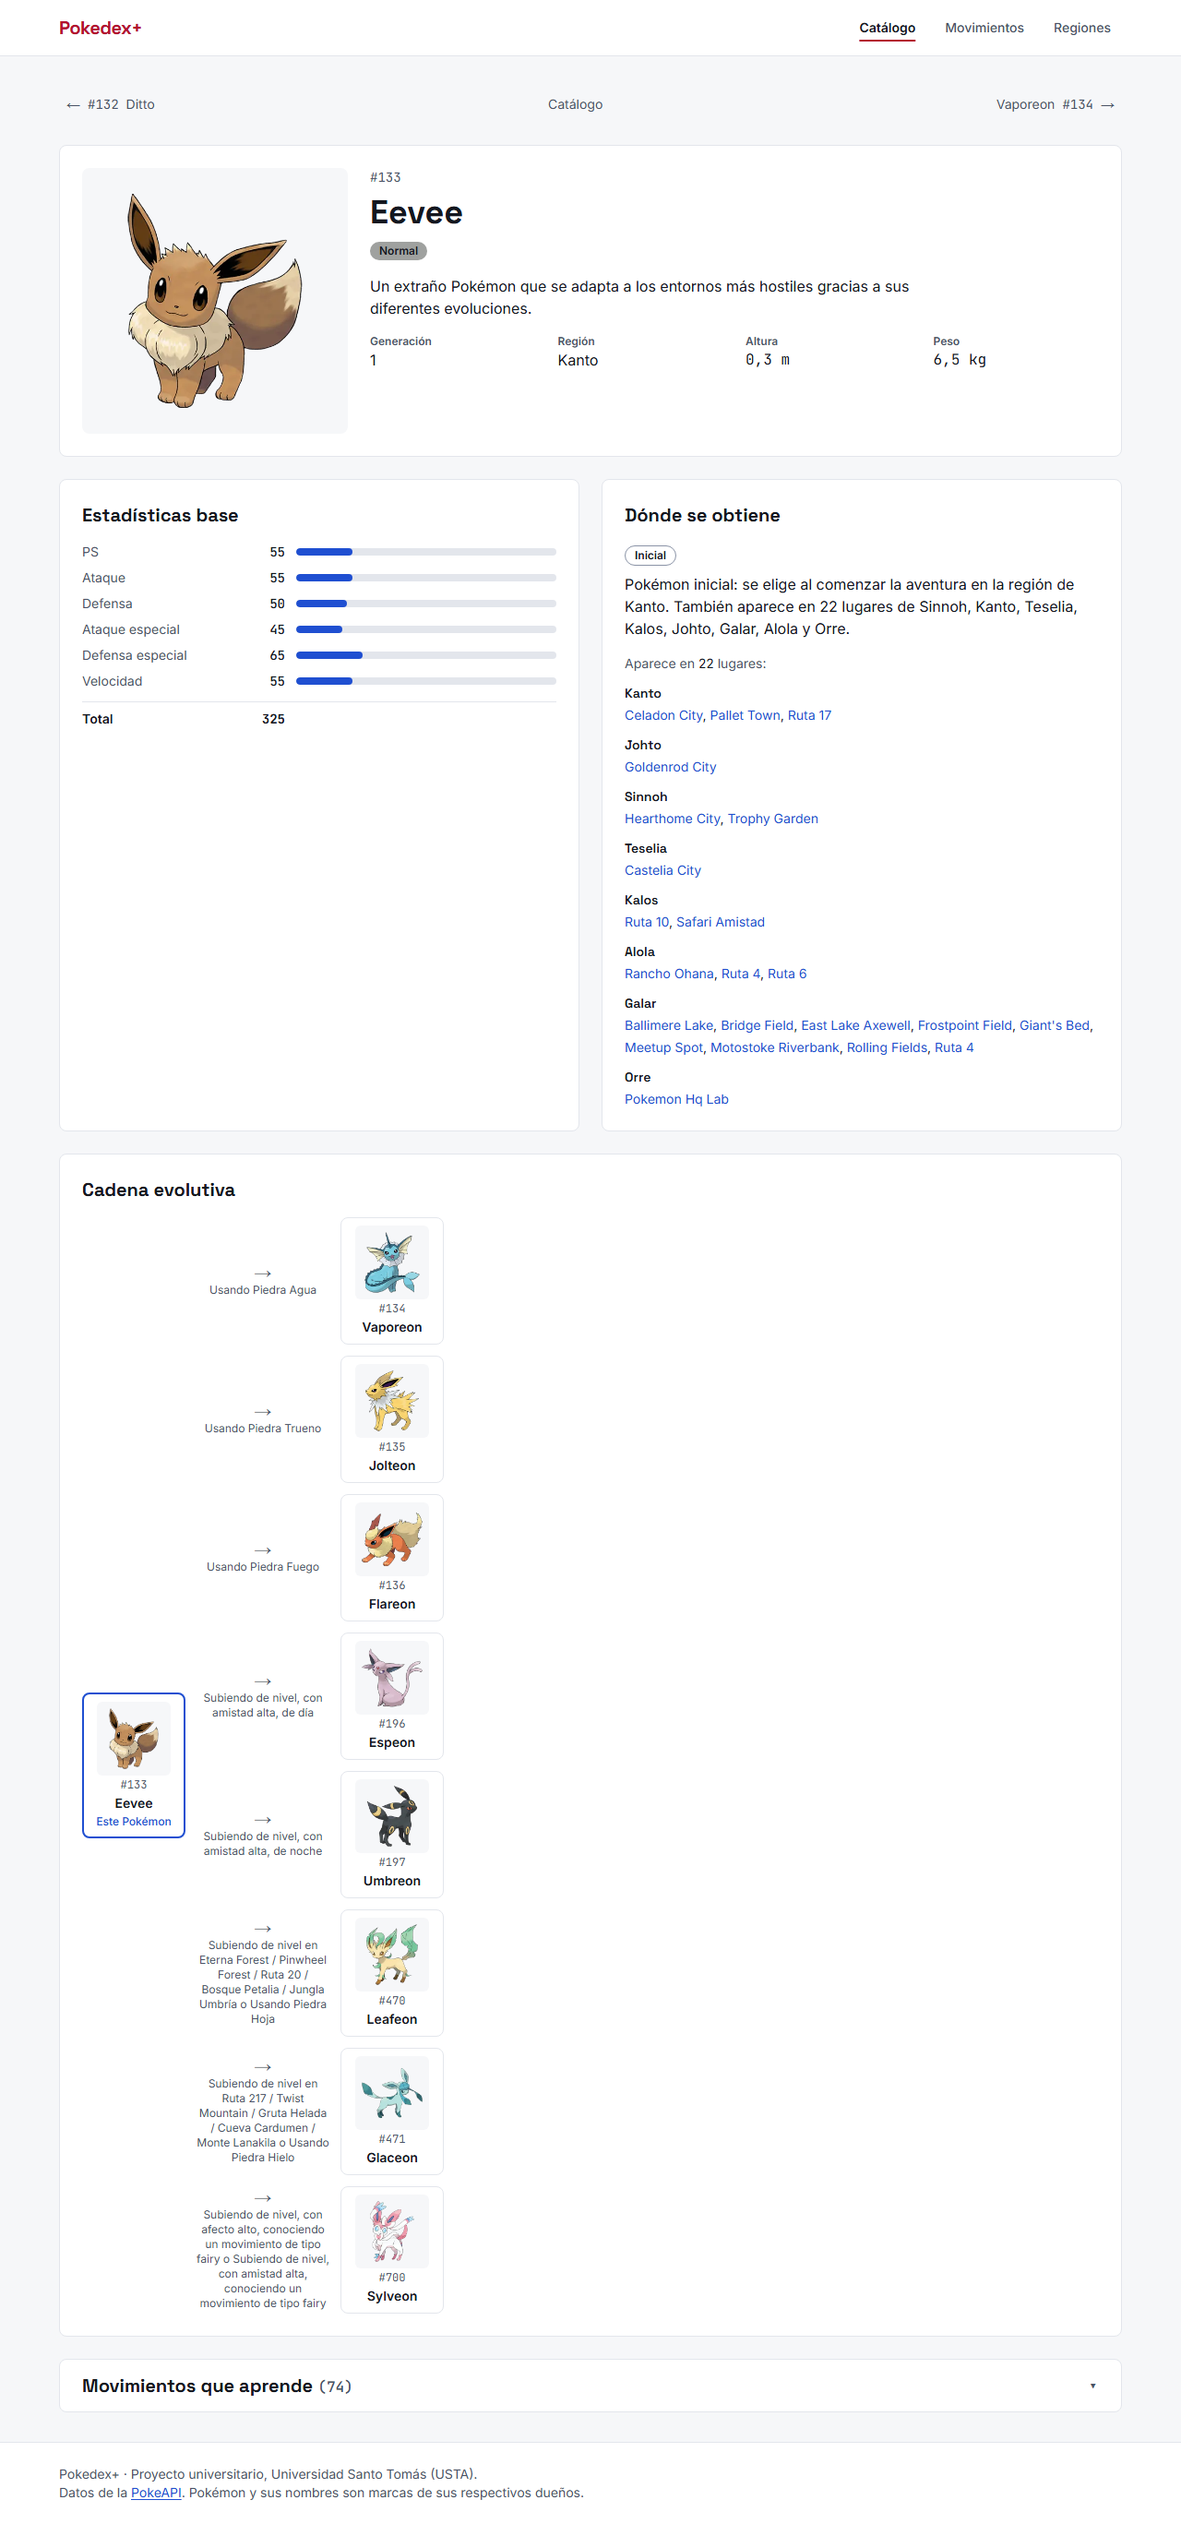
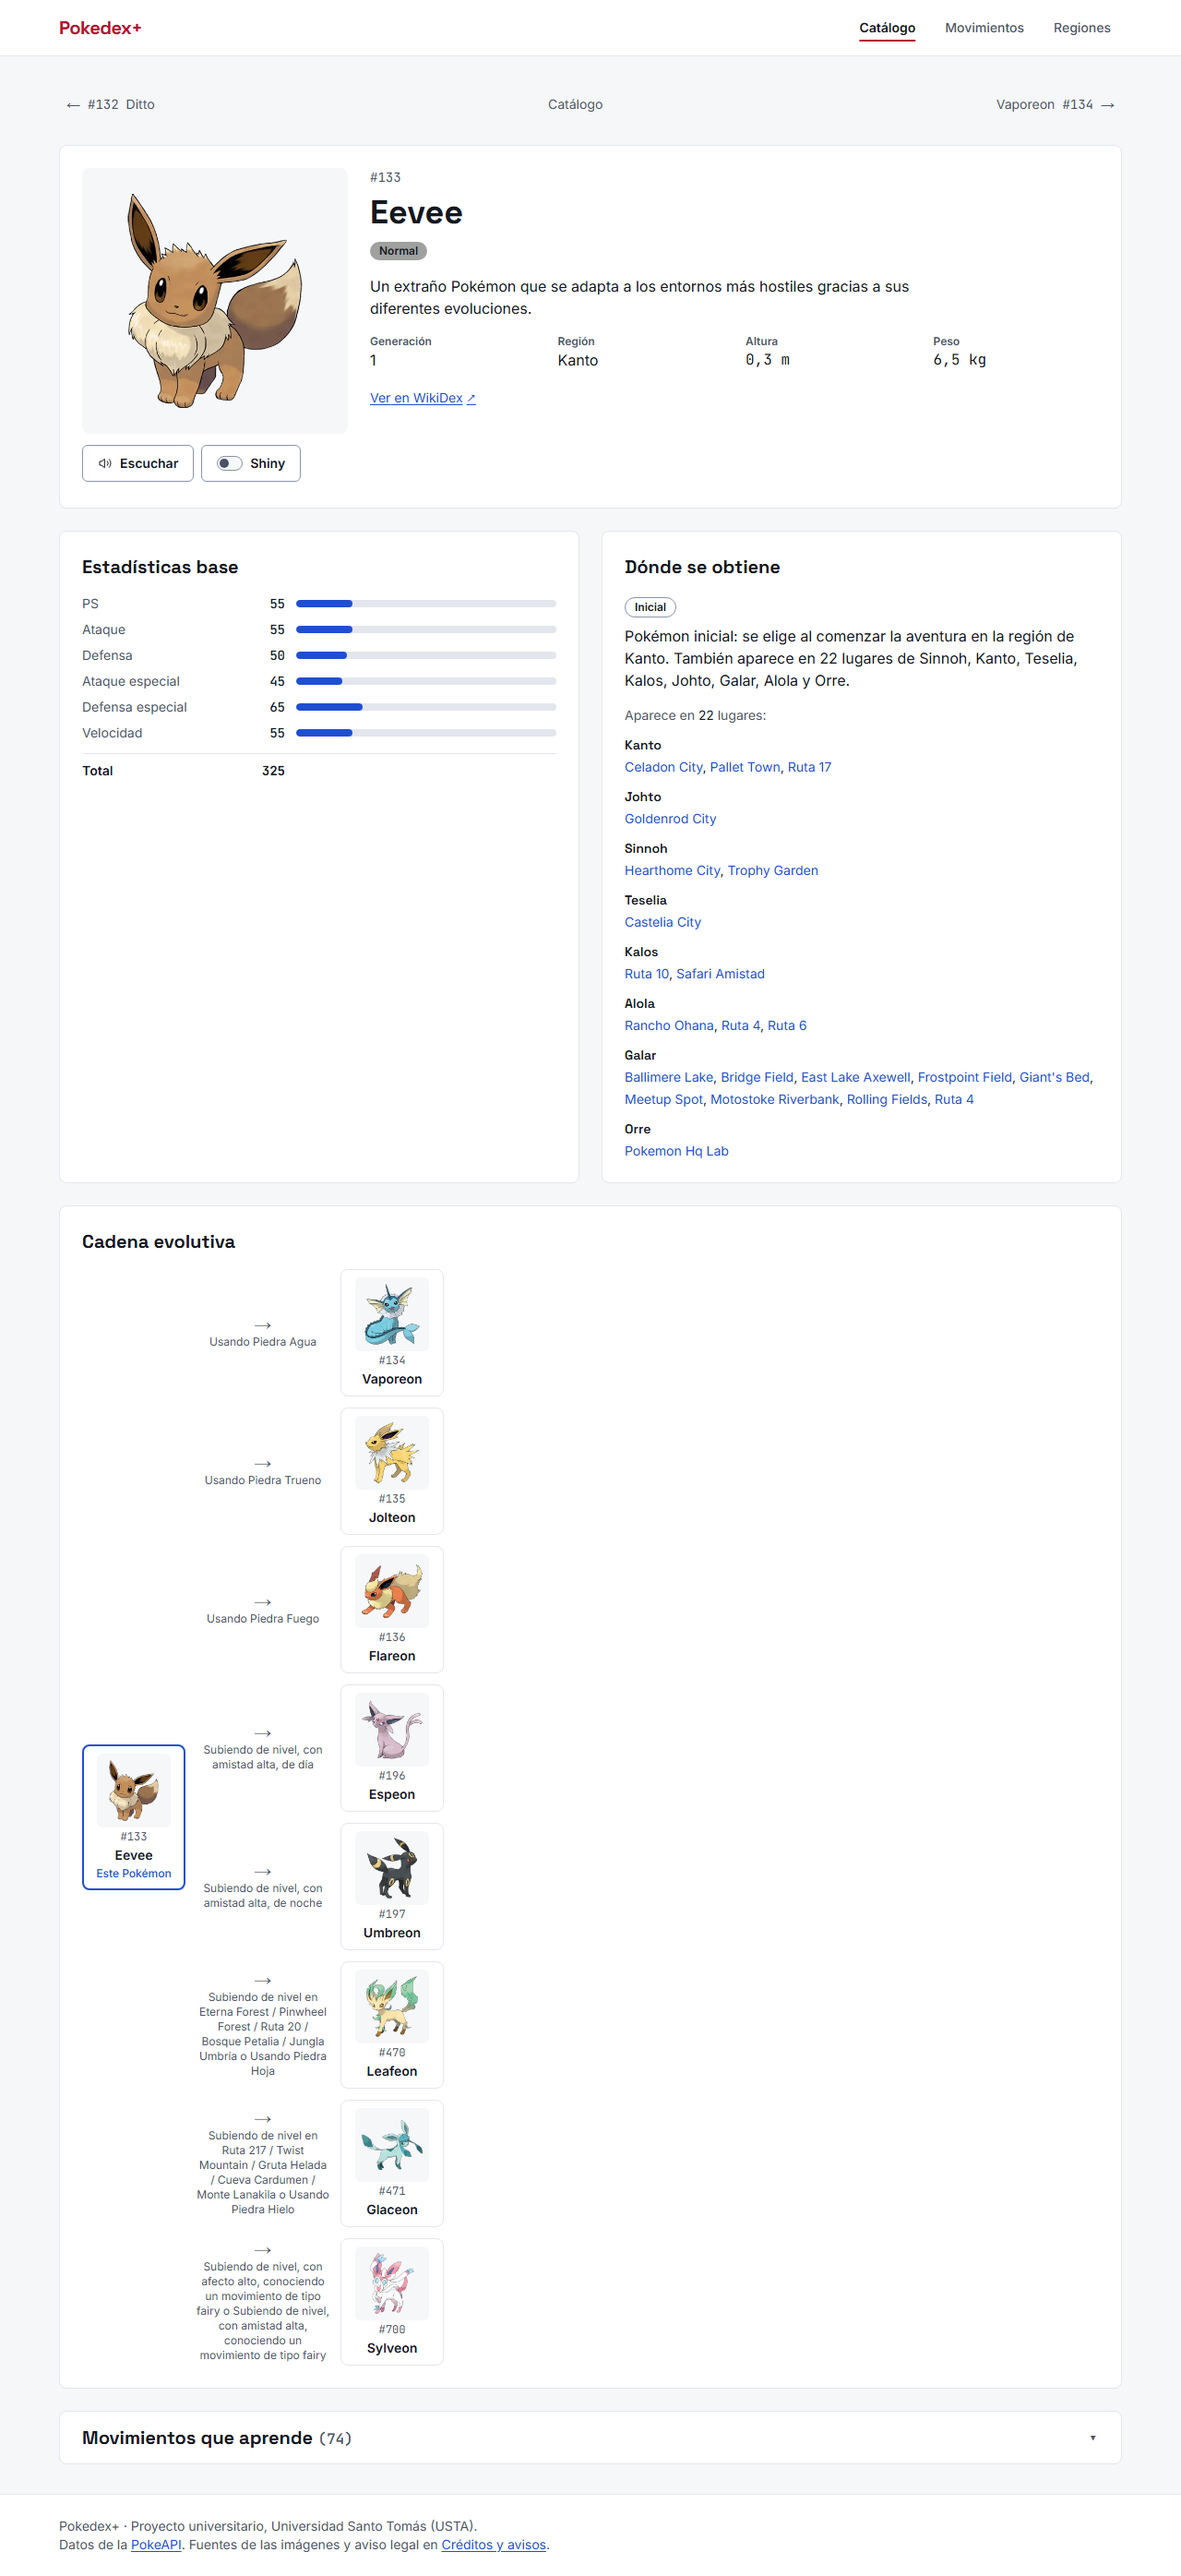
Capturas de referencia rehechas (P1, P2, P4, P5) y evaluación actualizada (FE.22)

diff --git a/docs/diseno/referencias/README.md b/docs/diseno/referencias/README.md
@@ -1,6 +1,6 @@
 # Pantallas de referencia · Pokedex+
 
-Capturas de página completa del front publicado (<https://pokedex-frontend-seven.vercel.app/>), tomadas el 2026-11-16 con Chrome sin interfaz y emulación de dispositivo (CDP): 390 px como móvil (escala 2×) y 1280 px como escritorio (escala 1×).
+Capturas de página completa del build de producción del front (`npm run build` + `next start`, solo con el mock, el mismo código que se publica en <https://pokedex-frontend-seven.vercel.app/>), tomadas el 2026-11-16 al cerrar FE.22 con Chrome sin interfaz y emulación de dispositivo (CDP): 390 px como móvil (escala 2×) y 1280 px como escritorio (escala 1×). Sustituyen a las de FE.13 e incluyen los toques de nostalgia, los mapas, las capturas de lugares y los enlaces a WikiDex.
 
 | Captura | Pantalla | Ancho |
 |---|---|---|
@@ -8,6 +8,10 @@ Capturas de página completa del front publicado (<https://pokedex-frontend-seve
 | [`p1-catalogo-1280.png`](p1-catalogo-1280.png) | P1 · Catálogo (`/`) | 1280 px |
 | [`p2-ficha-eevee-390.png`](p2-ficha-eevee-390.png) | P2 · Ficha de Eevee (`/pokemon/133`) | 390 px |
 | [`p2-ficha-eevee-1280.png`](p2-ficha-eevee-1280.png) | P2 · Ficha de Eevee (`/pokemon/133`) | 1280 px |
+| [`p4-region-kanto-390.png`](p4-region-kanto-390.png) | P4 · Región Kanto (`/regiones/kanto`) | 390 px |
+| [`p4-region-kanto-1280.png`](p4-region-kanto-1280.png) | P4 · Región Kanto (`/regiones/kanto`) | 1280 px |
+| [`p5-viridian-forest-390.png`](p5-viridian-forest-390.png) | P5 · Viridian Forest (`/rutas/62`) | 390 px |
+| [`p5-viridian-forest-1280.png`](p5-viridian-forest-1280.png) | P5 · Viridian Forest (`/rutas/62`) | 1280 px |
 
 **No hubo variantes /a /b /c.** El diseño se construyó directamente desde la identidad «Laboratorio» ([`identidad-visual.md`](../identidad-visual.md)) y la skill `ui-componentes`. Estas capturas son la referencia de cómo quedó, no el resultado de comparar alternativas (ver `decisiones.md`, 2026-11-16).
 
@@ -20,10 +24,13 @@ Escala: **Cumple** · **Cumple en parte** (funciona, pero hay algo concreto que 
 | Claridad | Cumple | Cada pantalla tiene un solo propósito visible arriba: título, una línea de explicación y la acción principal (el botón rojo "Buscar" es el único primario de la vista). Las tarjetas muestran solo número, nombre y tipos; los vacíos y errores se explican en texto. |
 | Jerarquía | Cumple en parte | Bien en el catálogo y en la cabecera de la ficha (número en mono → nombre grande → tipos → datos). En la ficha a 1280 px hay dos fallos de peso visual (ver mejoras 1 y 2). |
 | Consistencia | Cumple | Todo usa los tokens de la identidad: tarjetas blancas con borde de 1 px, píldoras para tipos y etiquetas, Space Grotesk en títulos, JetBrains Mono en números, un solo azul para enlaces y barras. Las mismas tarjetas de Pokémon se repiten en el catálogo y en las rutas. |
-| Responsivo a 390 px | Cumple en parte | Sin desplazamiento horizontal (`scrollWidth` = 390 en las dos pantallas), cuadrícula de 2 columnas, controles de 44 px de alto y cadena evolutiva en vertical. Pero en el catálogo los filtros ocupan casi toda la primera pantalla (ver mejora 3). |
+| Responsivo a 390 px | Cumple en parte | Sin desplazamiento horizontal (`scrollWidth` = 390 en las cuatro pantallas), cuadrícula de 2 columnas, controles de 44 px de alto y cadena evolutiva en vertical. Pero en el catálogo los filtros ocupan casi toda la primera pantalla (ver mejora 3). |
 | Accesibilidad AA | Cumple | Todo el texto cumple 4,5:1 (texto 17,9; secundario 7,2; acento 6,8; los 18 colores de tipo con su texto comprobado). Barras de estadística frente a su carril: 5,4:1. Revisión automática de las 5 pantallas a 375 y 1280 px (FE.12): un solo `h1`, sin saltos de encabezado, todas las imágenes con `alt`, todos los controles con nombre o etiqueta, foco visible. La categoría y el "competitivo" se leen como texto, no solo por color. |
+| Toques de nostalgia | Cumple | Un solo efecto destacado por pantalla (sprite animado en el catálogo; barras en la ficha; Escuchar y Shiny solo responden al usuario). Todos duran menos de 300 ms (fundido de 150 ms, barras de 280 ms) y se apagan con `prefers-reduced-motion` (comprobado con la emulación de CDP). Los mapas y capturas van en su propio bloque con el crédito debajo: no tapan nombre, número, tipos ni estadísticas (ver P4 y P5). Los enlaces a WikiDex avisan al lector de pantalla de que abren otra pestaña y salen del sitio. Sin 3D real. |
 
 ## Qué habría que mejorar
+
+Revisado otra vez al cerrar FE.22: las fases de nostalgia no tocaron estos puntos, así que las mejoras 1–6 siguen igual (las capturas nuevas las muestran). Se añaden la 7 y la 8.
 
 1. **Ficha a 1280 px: la tarjeta "Estadísticas base" se estira** hasta la altura de "Dónde se obtiene" y deja unos 400 px vacíos (Eevee aparece en 22 lugares). Arreglo: `items-start` en la cuadrícula de dos columnas, o poner las estadísticas junto a la cabecera.
 2. **Ficha a 1280 px: la cadena evolutiva usa un tercio del ancho.** Las condiciones largas (Leafeon, Glaceon, Sylveon) se parten en 6–7 líneas dentro de una columna de 144 px, mientras sobra espacio a la derecha. Arreglo: columna de condición más ancha (`md:w-56`) o, con ramas de más de 3 etapas, una cuadrícula de 2–4 columnas en lugar de la lista vertical.
@@ -32,4 +39,7 @@ Escala: **Cumple** · **Cumple en parte** (funciona, pero hay algo concreto que 
 5. **Enlaces de lugares solo por color.** En "Dónde se obtiene" los enlaces van en listas que son solo enlaces, así que no incumplen la 1.4.1, pero el azul frente al texto normal es 2,6:1 (no llega a 3:1). Subrayarlos siempre los haría reconocibles sin depender del color y, de paso, daría más área de toque en móvil.
 6. **Datos que llegan en inglés:** muchos lugares ("Celadon City", "Viridian Forest") y algunas condiciones ("…de tipo fairy"). No es del diseño sino de la PokeAPI (tarea B.26 del backend), pero se nota en la ficha.
 
-Las mejoras 1–5 son del front y caben en una tarea de pulido; ninguna bloquea el uso ni incumple AA.
+7. **Lista de lugares: el enlace corto "WikiDex ↗" se ve igual sea un artículo verificado o una búsqueda** (en Kanto, Four Island y Five Island van a la búsqueda). El lector de pantalla sí lo distingue ("Buscar Four Island en WikiDex"), pero quien mira no. Arreglo: texto visible "Buscar ↗" en los de búsqueda, o un icono de lupa.
+8. **Mapa de Kanto a 1280 px: bandas grises a los lados.** El alto se acota a 34rem para que la lista de lugares no quede lejos, y el mapa (más estrecho) queda centrado sobre el fondo del bloque. Es intencional, pero el bloque podría ajustarse al ancho del mapa (`w-fit mx-auto`).
+
+Las mejoras 1–5, 7 y 8 son del front y caben en una tarea de pulido; ninguna bloquea el uso ni incumple AA.
